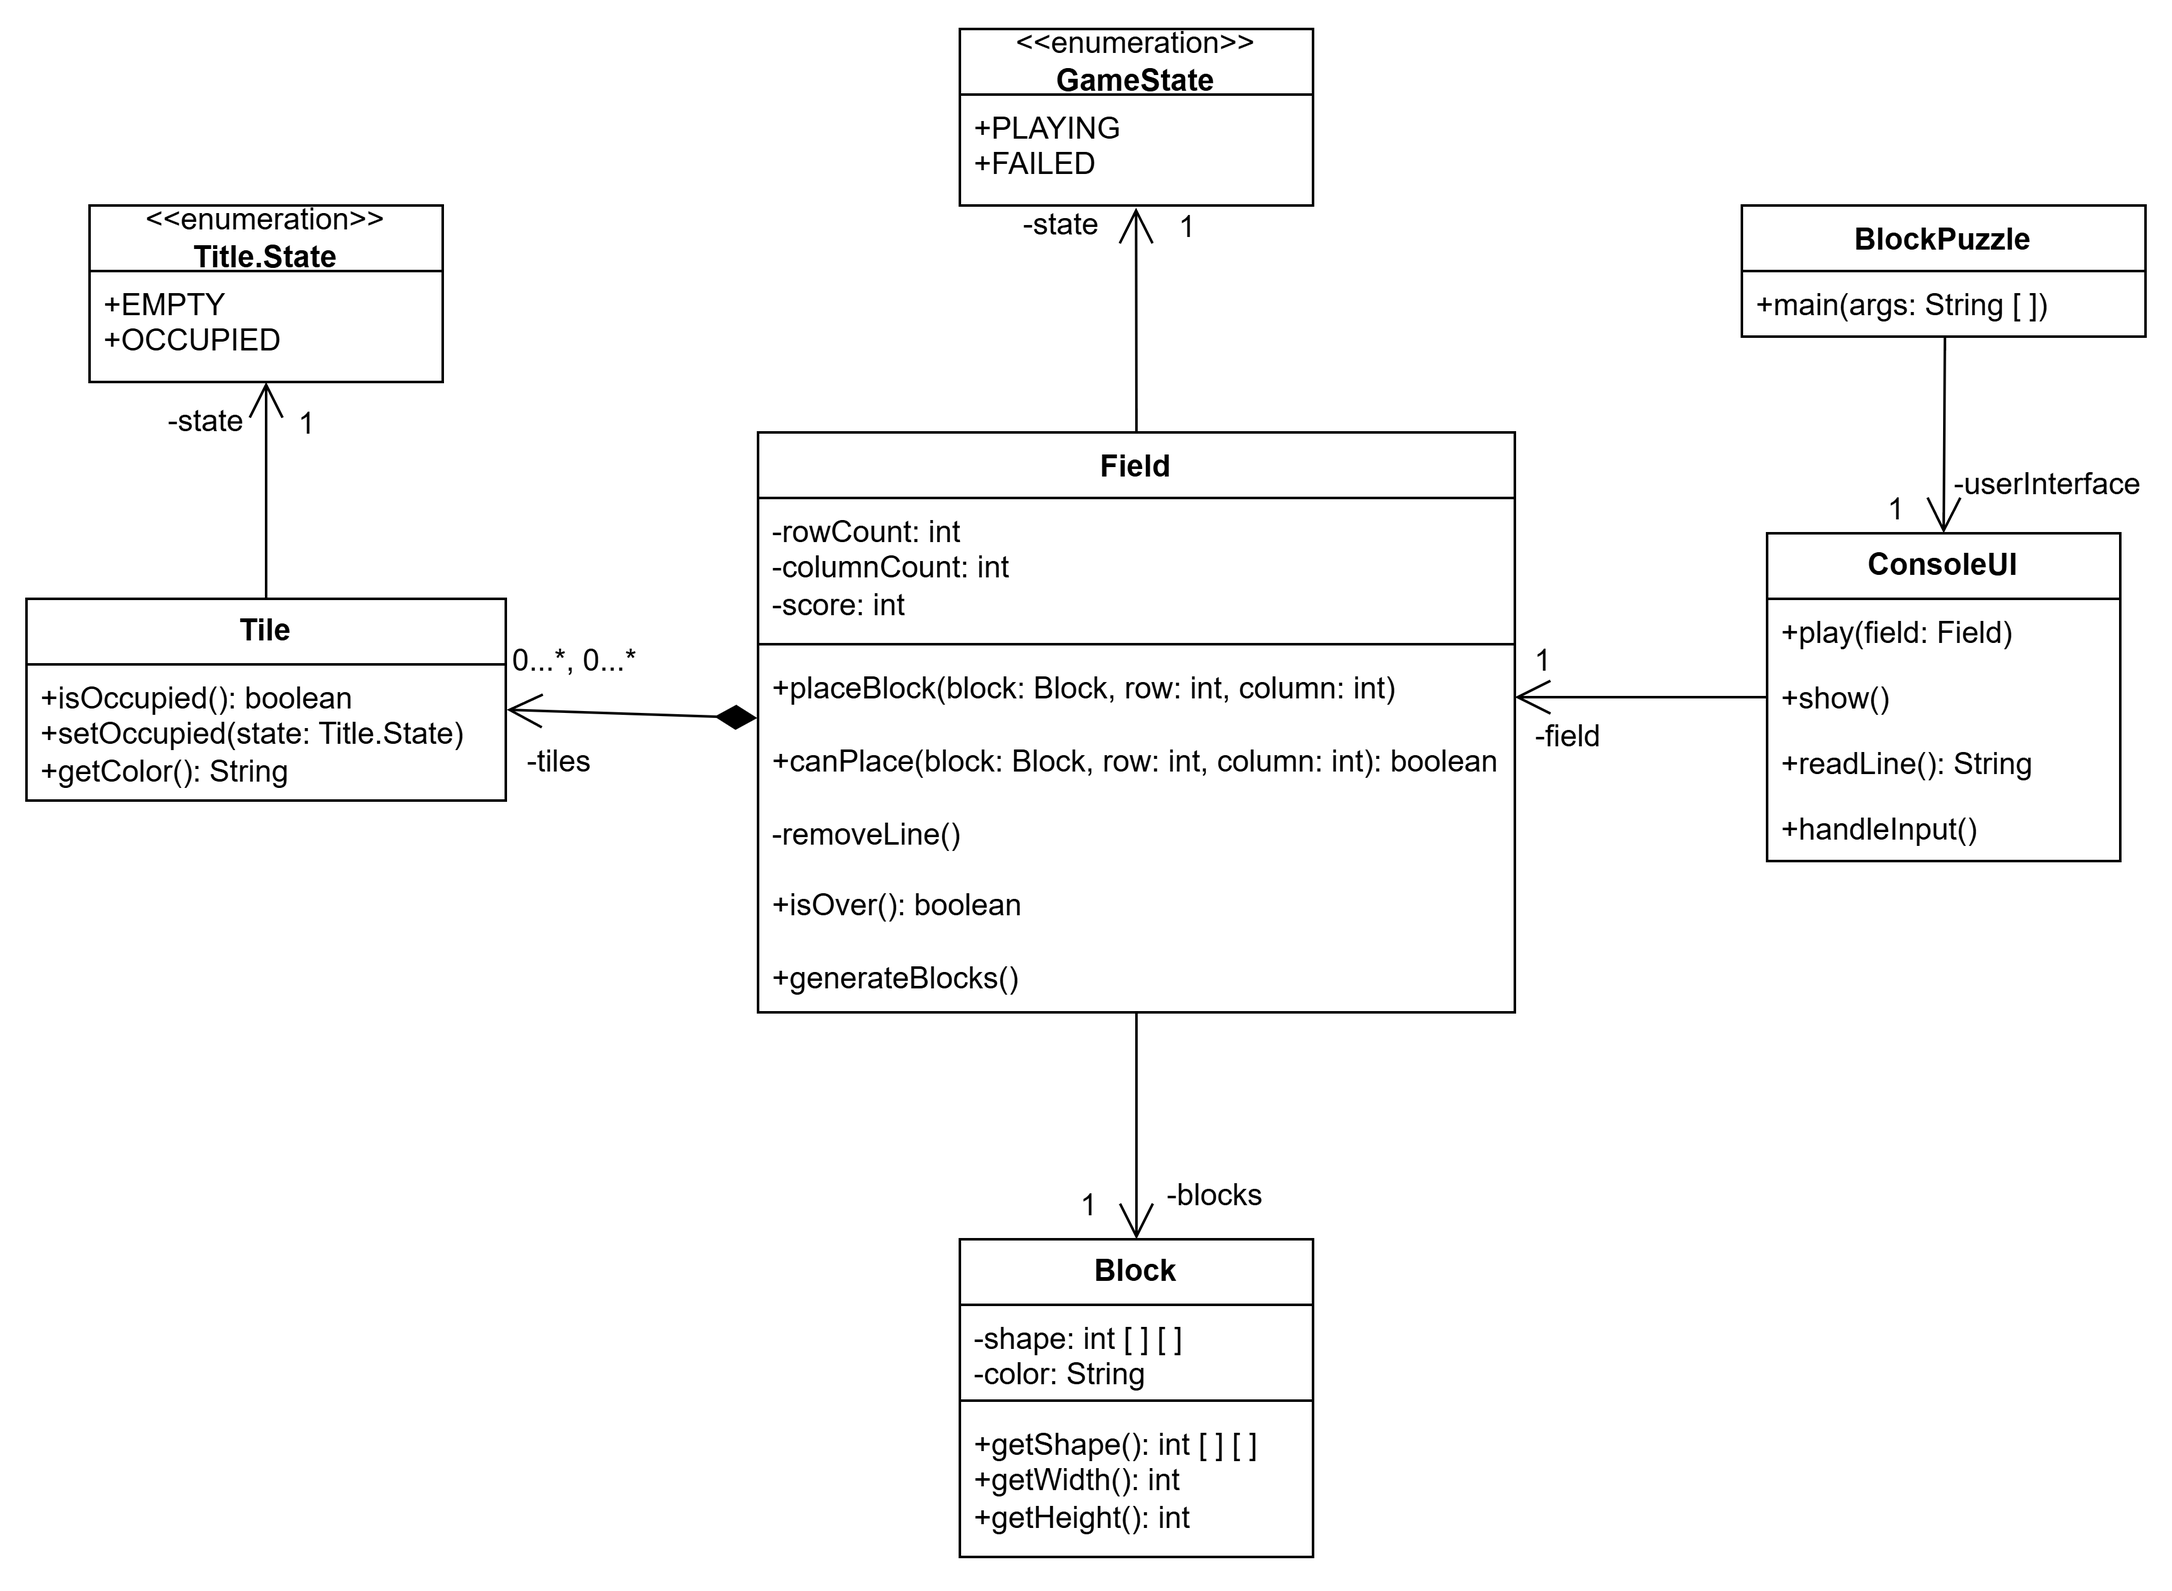
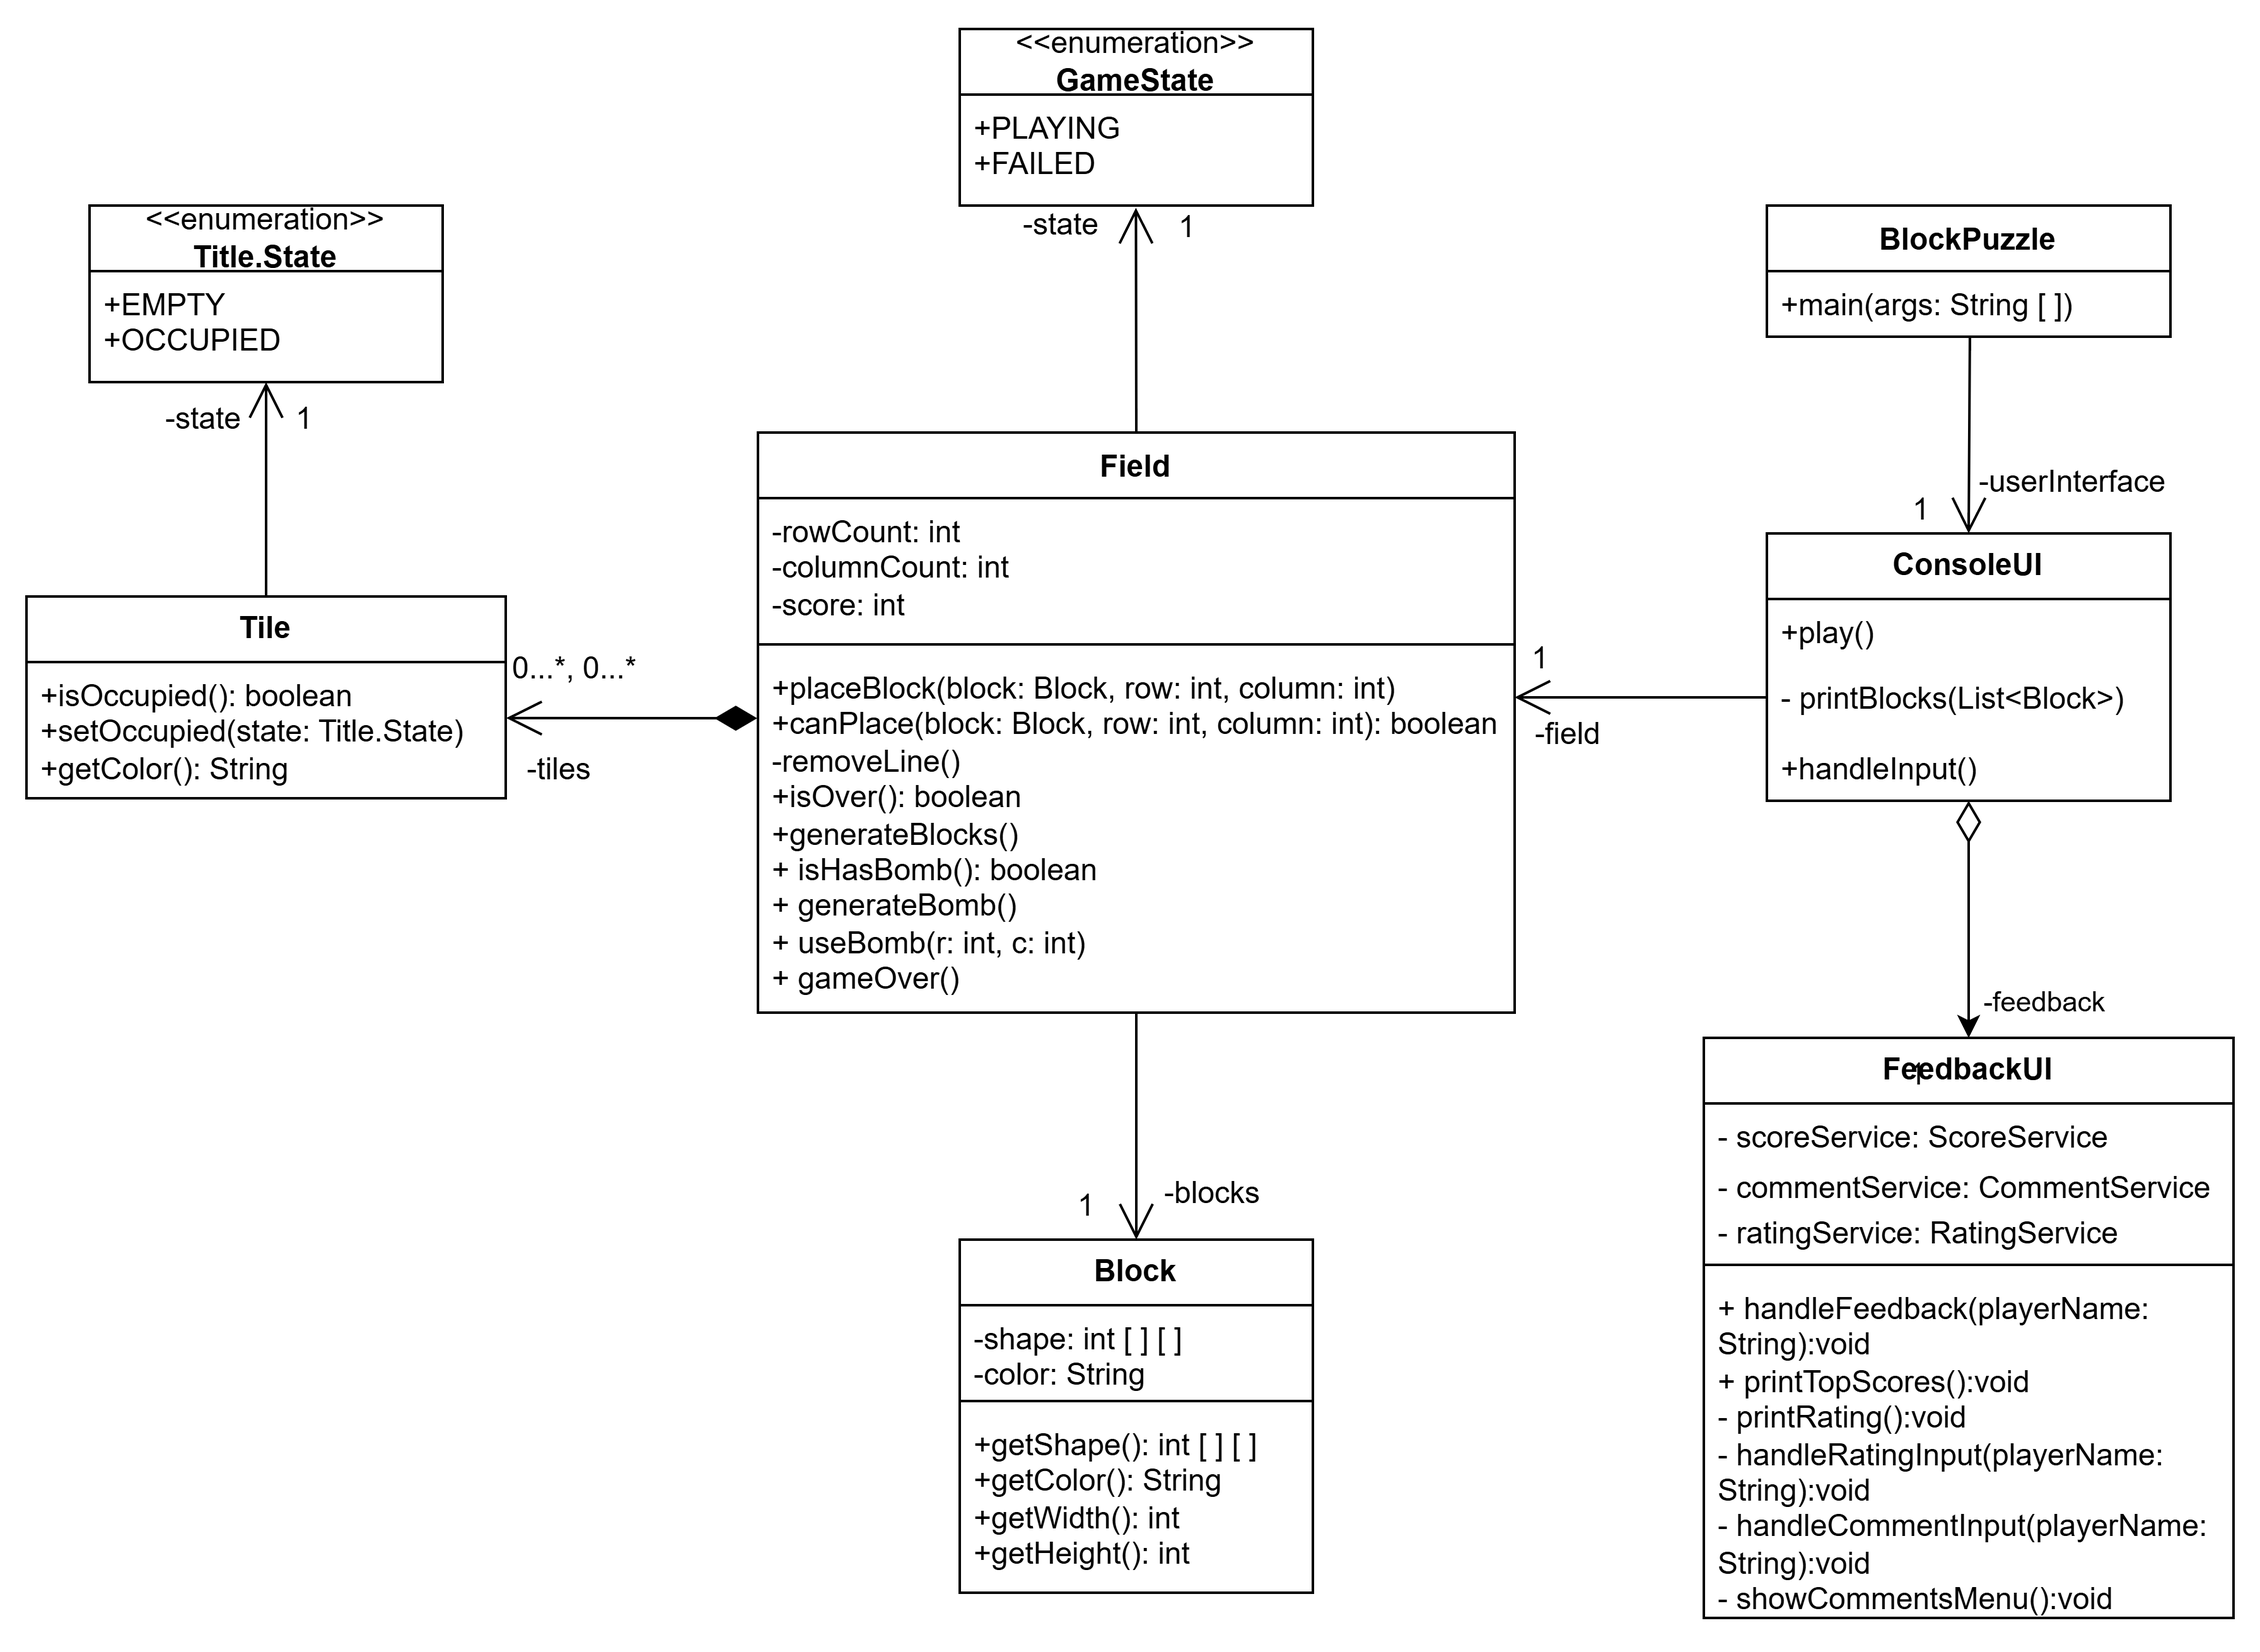
fixed

diff --git a/README.md b/README.md
@@ -55,3 +55,5 @@ Place all files and packages related to your game (e.g. `Main.java`, `core`, `co
 When creating new unit tests, place them into the `src/test/java/sk.tuke.gamestudio.game.[yourGame]` package.
 
 Use the [standard Maven directory layout](https://maven.apache.org/guides/introduction/introduction-to-the-standard-directory-layout.html) and GameStudio recommended directory structure when adding more classes.
+
+link https://youtube.com/shorts/uxbID26AE5M?feature=share - my game(Block Puzzle)
